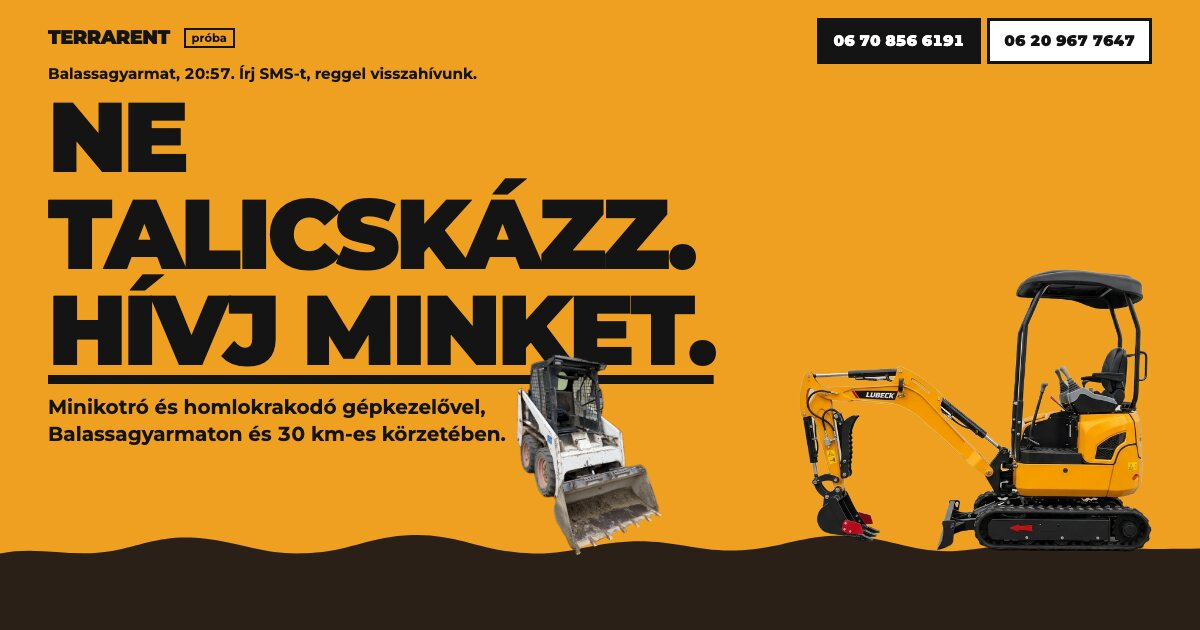
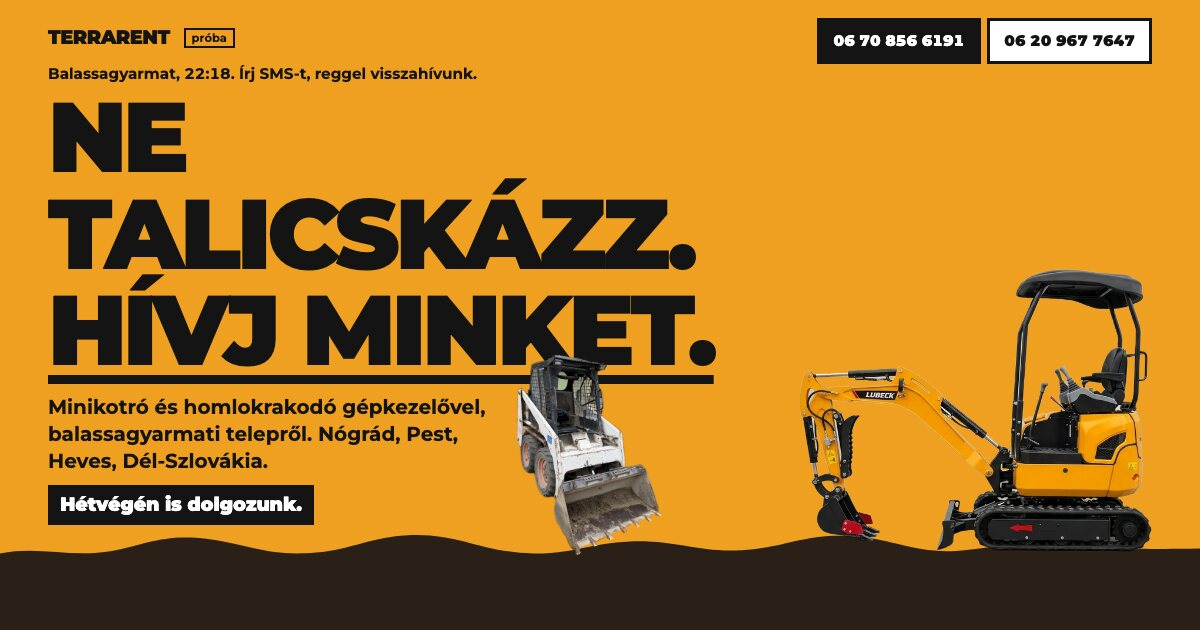
Hétvégén is dolgozunk: első képernyő, munkamenet, elérhetőség minden nap

Changed region(s): [[0.0308, 0.6635, 0.4317, 0.8444], [0.1542, 0.0905, 0.185, 0.1206]]

diff --git a/index.html b/index.html
@@ -4,7 +4,7 @@
 <meta charset="utf-8">
 <meta name="viewport" content="width=device-width,initial-scale=1,viewport-fit=cover">
 <title>Minikotró, földmunka, kerítés, kőműves munkák gépkezelővel, Balassagyarmat | TerraRent</title>
-<meta name="description" content="Földmunka, kerítésépítés, kőműves munkák a balassagyarmati telepről: egész Nógrád, Vác, Hatvan, Észak-Pest és Dél-Szlovákia. A kotró 110 cm széles. Ingyenes felmérés, ár megbeszélés alapján.">
+<meta name="description" content="Földmunka, kerítésépítés, kőműves munkák a balassagyarmati telepről: egész Nógrád, Vác, Hatvan, Észak-Pest és Dél-Szlovákia. A kotró 110 cm széles. Hétvégén is dolgozunk. Ingyenes felmérés, ár megbeszélés alapján.">
 <!-- PRÓBAVERZIÓ: amíg minta és dummy szövegek vannak rajta, ne kerüljön a Google-be. Élesítéskor törlendő. -->
 <meta name="robots" content="noindex,nofollow">
 <meta name="theme-color" content="#F0A020">
@@ -38,6 +38,7 @@
     <a href="tel:+36708566191">Hívj minket.</a>
   </p>
   <h1 class="bev">Minikotró és homlokrakodó gépkezelővel, balassagyarmati telepről. Nógrád, Pest, Heves, Dél-Szlovákia.</h1>
+  <p class="hetvege">Hétvégén is dolgozunk.</p>
 </section>
 
 <main class="fold">
@@ -189,7 +190,7 @@
     <ol>
       <li><b>Hívsz vagy írsz.</b>Elmondod, mi kell, a fotó sokat segít.</li>
       <li><b>Kijövünk megnézni.</b>Ingyen.</li>
-      <li><b>Megcsináljuk.</b>Gépkezelővel, a saját gépeinkkel.</li>
+      <li><b>Megcsináljuk.</b>Gépkezelővel, a saját gépeinkkel, hétvégén is.</li>
       <li><b>A munka után fizetsz.</b>Előleg nélkül.</li>
     </ol>
   </section>

diff --git a/style.css b/style.css
@@ -46,6 +46,8 @@ h3{font-size:var(--c2)}
 .foc a{text-decoration:underline;text-decoration-thickness:.09em;text-underline-offset:.1em}
 .bev{margin-top:14px;font-weight:700;font-size:min(1.06rem,2.4svh);max-width:30rem;letter-spacing:0;line-height:1.35}
 
+.hetvege{display:inline-block;margin-top:10px;background:var(--ink);color:#fff;font-weight:900;font-size:min(1.08rem,2.5svh);letter-spacing:-.01em;padding:5px 10px}
+
 .fold{position:relative;z-index:2;margin-top:calc(-1 * (var(--sav) + 34px));background:var(--fold);color:#fff}
 .gerinc{position:absolute;left:0;right:0;bottom:100%;width:100%;height:56px;margin-bottom:-1px;fill:var(--fold)}
 .kotro-gerinc{position:absolute;right:1vw;bottom:calc(100% + 24px);width:min(61vw,30svh);z-index:3}
@@ -241,6 +243,7 @@ legend{font-weight:900;font-size:1.05rem;padding:14px 0 8px}
   .foc{font-size:min(9.4vw,15.6svh);margin-top:6px}
   .allapot{font-size:.95rem;min-height:0}
   .bev{font-size:1.25rem;margin-top:16px}
+  .hetvege{font-size:1.2rem;padding:6px 12px}
   .fold{margin-top:-52px}
   .kotro-gerinc{width:min(38vw,56svh);right:4vw;bottom:calc(100% + 26px)}
   .rakodo-gerinc{width:auto;height:min(32svh,24vw);left:43vw;bottom:calc(100% + 22px)}

diff --git a/app.js b/app.js
@@ -7,8 +7,8 @@
 
   /* --- Óra: Balassagyarmat, elérhetőség, napnyugta --- */
   const SZEL = 48.07, HOSSZ = 19.3;
-  // PRÓBA: a munkaidő feltételezett, Bencével egyeztetendő
-  const MUNKAIDO = { tol: 7, ig: 18, napok: [1, 2, 3, 4, 5, 6] };
+  // Hétvégén is dolgoznak. PRÓBA: a 7–18 feltételezett, Bencével egyeztetendő
+  const MUNKAIDO = { tol: 7, ig: 18, napok: [0, 1, 2, 3, 4, 5, 6] };
   function napnyugta(d) {
     const rad = Math.PI / 180;
     const n = Math.floor(d.getTime() / 864e5 + 2440587.5 - 2451545.0 + 0.0008);
@@ -36,7 +36,6 @@
   /* --- Következő szabad nap. PRÓBA: ezt majd egy Google-táblázatból olvassa, most kitalált --- */
   const NAPNEV = ['vasárnap', 'hétfő', 'kedd', 'szerda', 'csütörtök', 'péntek', 'szombat'];
   const szabad = new Date(Date.now() + 2 * 864e5);
-  if (szabad.getDay() === 0) szabad.setDate(szabad.getDate() + 1);
   $('szabadnap').textContent = NAPNEV[szabad.getDay()];
 
   /* --- Falukereső és térkép --- */
